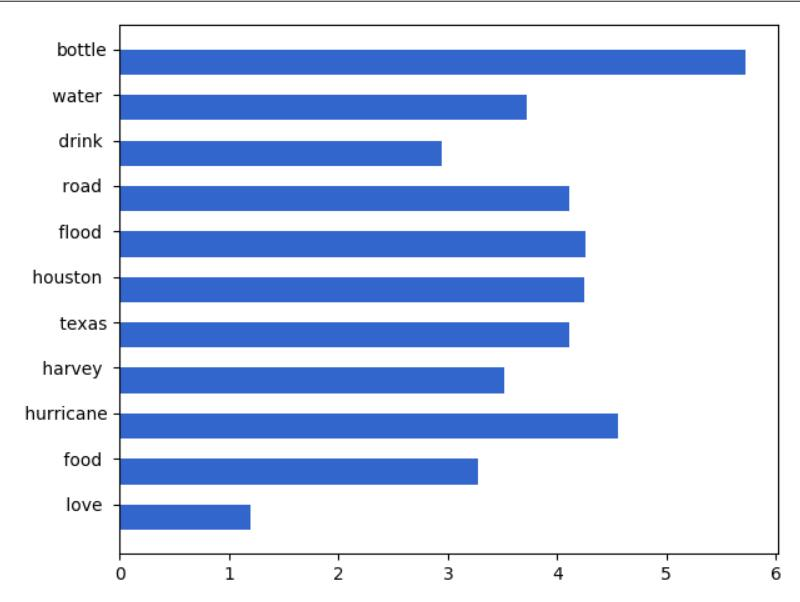
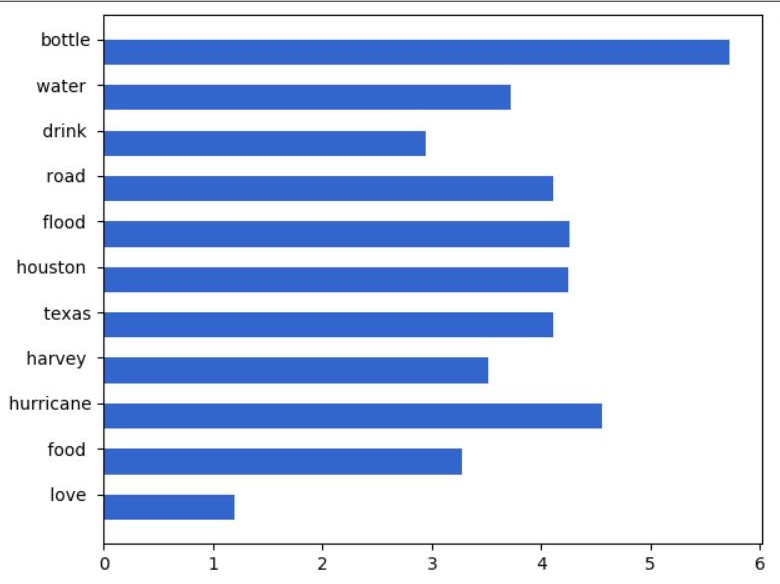
add idf

Changed region(s): [[0.0, 0.0, 0.9846, 0.9863], [0.7077, 0.3082, 0.7385, 0.339]]

diff --git a/index.html b/index.html
@@ -39,6 +39,13 @@
 </table>
 
 <table>
+    <caption>Inverse Document Frequencies (IDF)</caption>
+    <tr>
+        <td><img src="data/images/IDF.jpg" width="800" height="600" border="1" /></td>
+    </tr>
+</table>
+
+<table>
     <caption><b>TF-IDF</b> heatmap for documents with total score >= 0.5</caption>
     <tr>
         <td><img src="data/images/tf_idf_heatmap.png" width="800" height="600" border="1" /></td>
